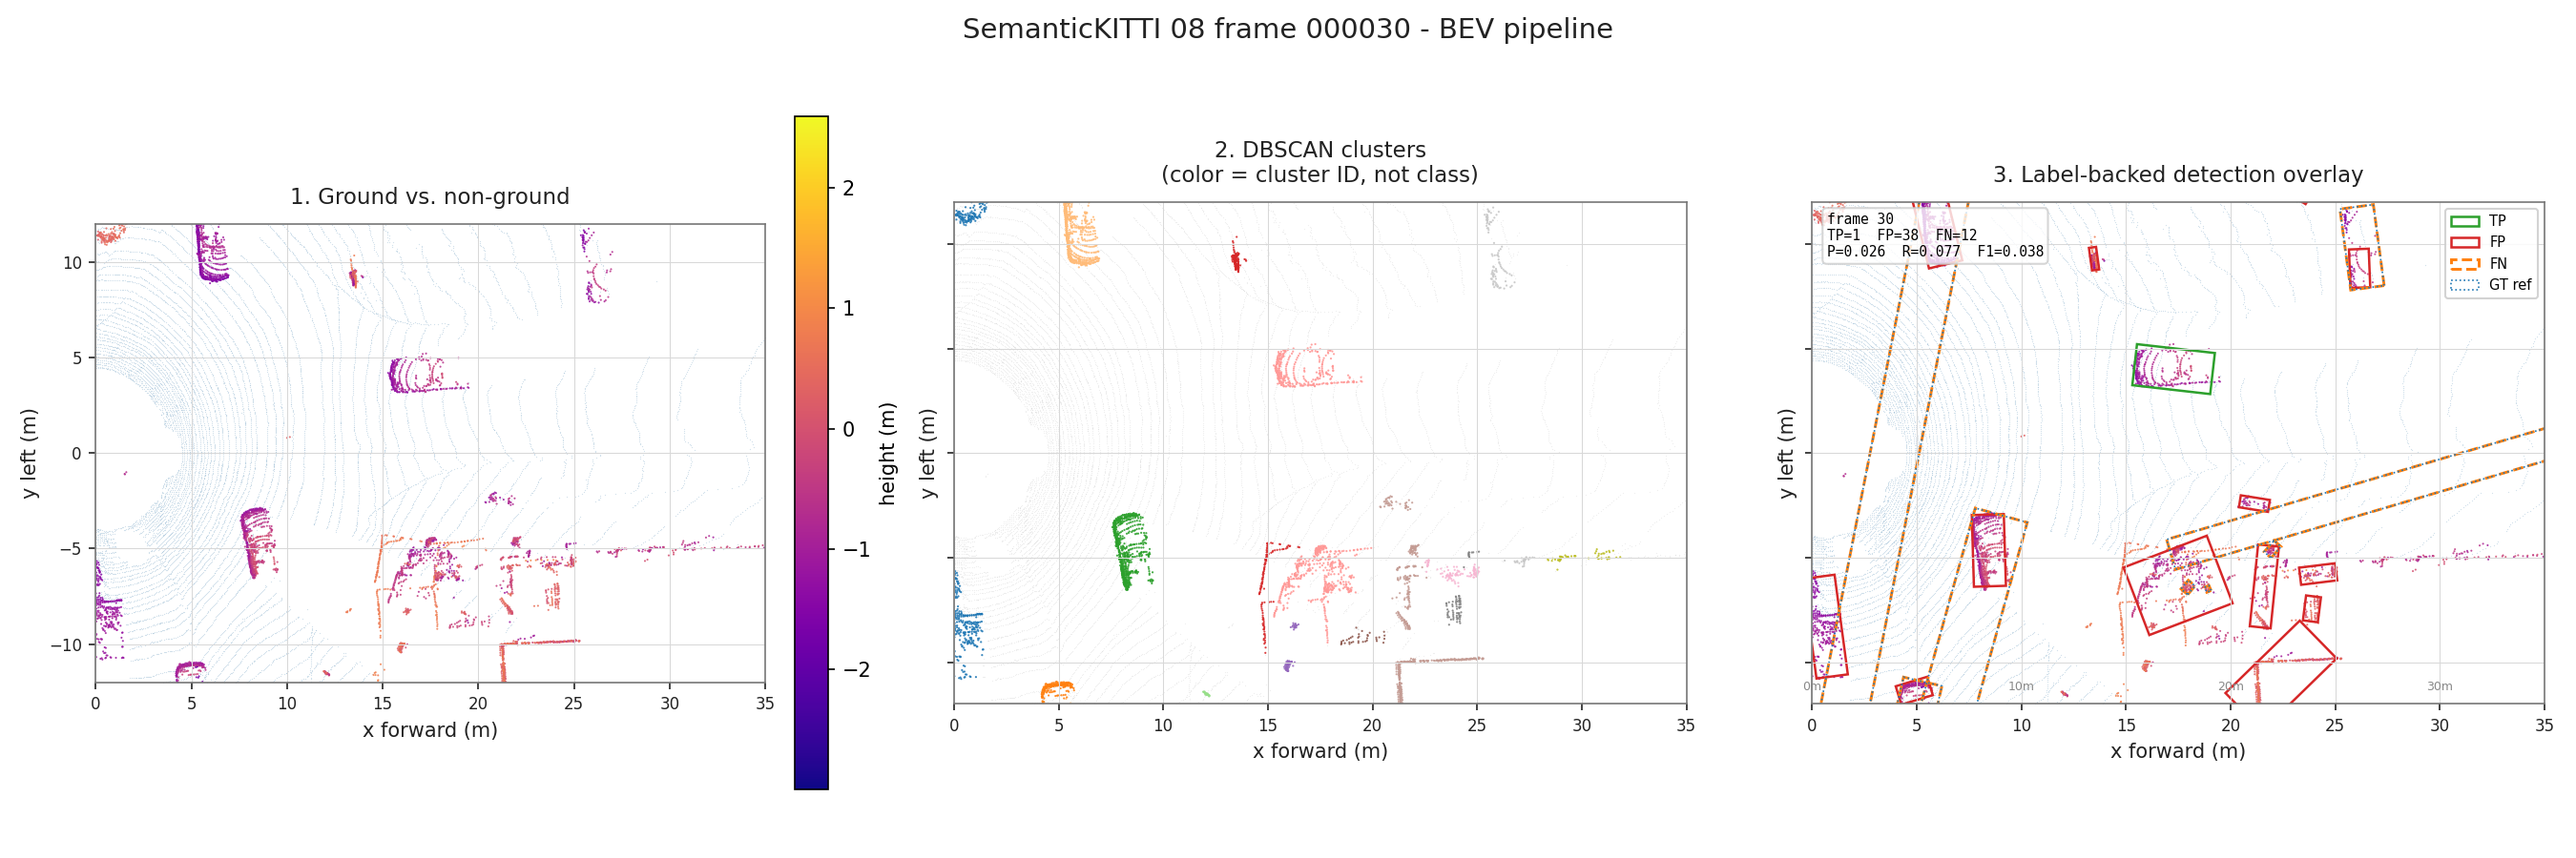
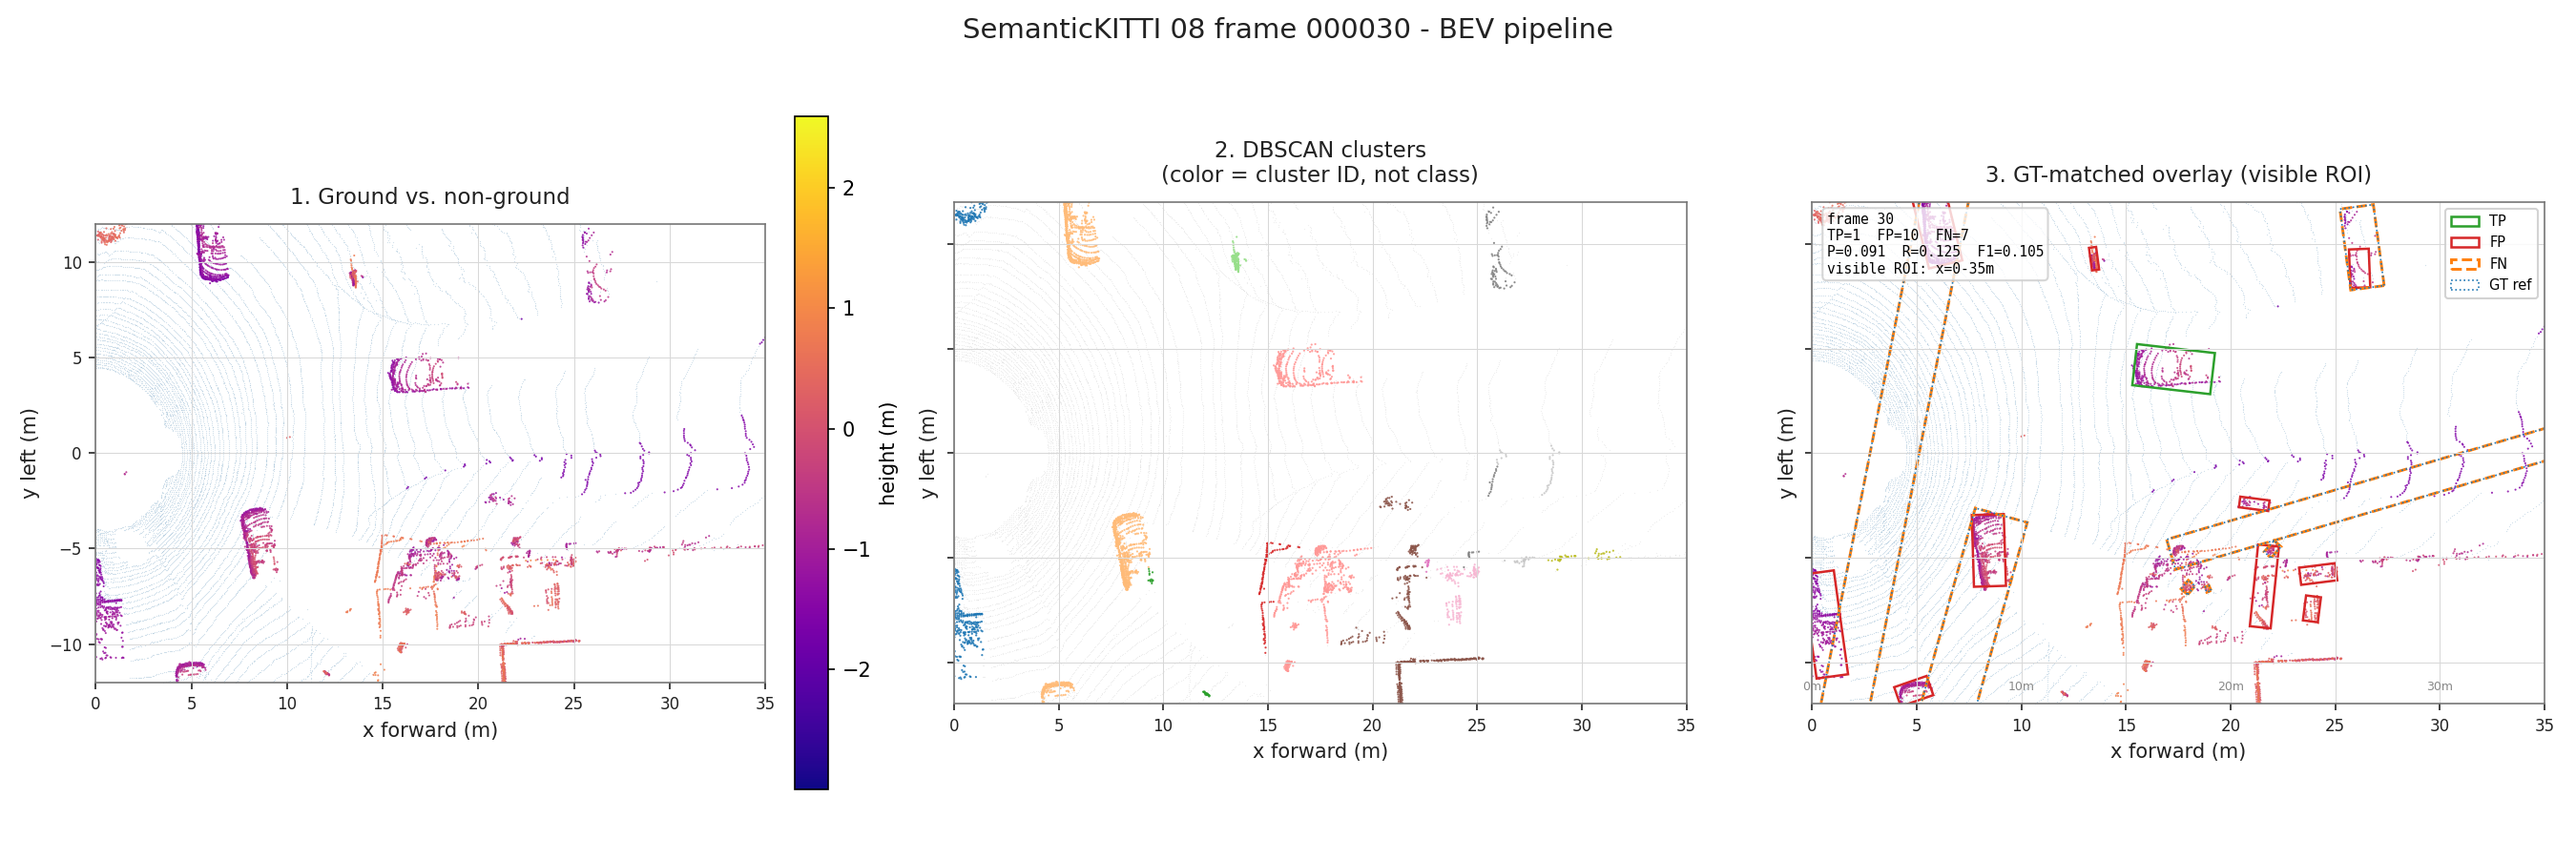
fix: align visible overlays and refine proposals

diff --git a/tools/render_bev.py b/tools/render_bev.py
@@ -37,6 +37,30 @@ NOISE = "#d0d0d0"
 BOX = "#d62728"
 
 
+def _display_bounds(config: dict) -> ROIBounds:
+    """Resolve the XY window used for the rendered qualitative view."""
+    roi_cfg = config.get("preprocess", {}).get("roi", {})
+    display_cfg = config.get("visualization", {}).get("display_roi") or roi_cfg
+    return ROIBounds(
+        x_min=float(display_cfg.get("x_min", roi_cfg.get("x_min", 0.0))),
+        x_max=float(display_cfg.get("x_max", roi_cfg.get("x_max", 70.0))),
+        y_min=float(display_cfg.get("y_min", roi_cfg.get("y_min", -40.0))),
+        y_max=float(display_cfg.get("y_max", roi_cfg.get("y_max", 40.0))),
+        z_min=float(roi_cfg.get("z_min", -3.0)),
+        z_max=float(roi_cfg.get("z_max", 3.0)),
+    )
+
+
+def _boxes_in_display_roi(boxes, bounds: ROIBounds):
+    """Keep boxes whose centre is inside the rendered view."""
+    return [
+        box
+        for box in boxes
+        if bounds.x_min <= box.center[0] <= bounds.x_max
+        and bounds.y_min <= box.center[1] <= bounds.y_max
+    ]
+
+
 def _detection_overlay_data(config: dict, dataset: KITTIDataset, frame_idx: int, boxes) -> tuple[list[BoundingBox3D], list[BoundingBox3D], set[int], set[int]]:
     """Build a label-backed overlay using the same target and IoU rules as eval."""
     frame = dataset.get_frame(frame_idx)
@@ -78,6 +102,10 @@ def _detection_overlay_data(config: dict, dataset: KITTIDataset, frame_idx: int,
         )
         if _ids_match_target(semantic_id, target_ids):
             predictions.append(BoundingBox3D.from_obb_params(box, semantic_id=semantic_id))
+
+    display_bounds = _display_bounds(config)
+    predictions = _boxes_in_display_roi(predictions, display_bounds)
+    ground_truth = _boxes_in_display_roi(ground_truth, display_bounds)
 
     threshold = float(config.get("evaluation", {}).get("iou_threshold", 0.5))
     matches, _, _ = InstanceMatcher(
@@ -241,10 +269,23 @@ def _render_bev(config: dict, frame_idx: int, mode: str, output_path: Path) -> N
         precision = tp / (tp + fp) if tp + fp else 0.0
         recall = tp / (tp + fn) if tp + fn else 0.0
         f1 = 2.0 * precision * recall / (precision + recall) if precision + recall else 0.0
+        display_bounds = _display_bounds(config)
         draw_metrics_text(
-            axes[2], tp, fp, fn, precision, recall, f1, frame_idx
+            axes[2],
+            tp,
+            fp,
+            fn,
+            precision,
+            recall,
+            f1,
+            frame_idx,
+            distance_str=(
+                f"visible ROI: x={display_bounds.x_min:.0f}-{display_bounds.x_max:.0f}m"
+            ),
         )
-        _style_axis(axes[2], config, points, "3. Label-backed detection overlay")
+        _style_axis(
+            axes[2], config, points, "3. GT-matched overlay (visible ROI)"
+        )
         roi_cfg = config.get("preprocess", {}).get("roi", {})
         display_roi = config.get("visualization", {}).get("display_roi") or roi_cfg
         draw_distance_scale(

diff --git a/tests/test_render_bev.py b/tests/test_render_bev.py
@@ -1,0 +1,30 @@
+import numpy as np
+
+from src.eval.detection_eval import BoundingBox3D
+from src.preprocess.roi import ROIBounds
+from tools.render_bev import _boxes_in_display_roi, _display_bounds
+
+
+def _box(x: float, y: float) -> BoundingBox3D:
+    return BoundingBox3D(
+        center=np.array([x, y, 0.0]),
+        dimensions=np.array([4.0, 2.0, 1.5]),
+        yaw=0.0,
+    )
+
+
+def test_display_bounds_uses_display_roi_without_changing_processing_bounds() -> None:
+    config = {
+        "preprocess": {"roi": {"x_min": 0, "x_max": 70, "y_min": -40, "y_max": 40, "z_min": -3, "z_max": 3}},
+        "visualization": {"display_roi": {"x_min": 0, "x_max": 35, "y_min": -12, "y_max": 12}},
+    }
+
+    assert _display_bounds(config) == ROIBounds(0.0, 35.0, -12.0, 12.0, -3.0, 3.0)
+
+
+def test_overlay_keeps_only_boxes_centered_in_visible_roi() -> None:
+    bounds = ROIBounds(0.0, 35.0, -12.0, 12.0, -3.0, 3.0)
+
+    visible = _boxes_in_display_roi([_box(10.0, 0.0), _box(35.0, 12.0), _box(36.0, 0.0), _box(10.0, -13.0)], bounds)
+
+    assert [(box.center[0], box.center[1]) for box in visible] == [(10.0, 0.0), (35.0, 12.0)]

diff --git a/docs/results/kitti08_subset.md b/docs/results/kitti08_subset.md
@@ -12,38 +12,38 @@ This result is generated with `examples/kitti08_subset.yaml`.
 - Prediction class source: box-size heuristic when no class metadata exists
 - Ground RANSAC seed: `0` (fixed for repeatable runs)
 - Output: `outputs/kitti08_subset/reports/det_metrics.json`
+- Selection note: `max_box_volume: 10.0` won a controlled one-factor comparison on this same subset; this is not a held-out benchmark.
 
 ## Overall Metrics
 
 | Metric | Value |
 | --- | ---: |
 | Frames | 500 |
-| Predictions | 14872 |
+| Predictions | 12812 |
 | Ground-truth boxes | 1937 |
-| True positives | 563 |
-| False positives | 14309 |
-| False negatives | 1374 |
-| Precision | 0.0379 |
-| Recall | 0.2907 |
-| F1 | 0.0670 |
-| Mean IoU of matched boxes | 0.7223 |
+| True positives | 541 |
+| False positives | 12271 |
+| False negatives | 1396 |
+| Precision | 0.0422 |
+| Recall | 0.2793 |
+| F1 | 0.0734 |
+| Mean IoU of matched boxes | 0.7237 |
 
 ## Distance Metrics
 
 | Range | Predictions | GT | TP | FP | FN | Precision | Recall | F1 | Mean IoU |
 | --- | ---: | ---: | ---: | ---: | ---: | ---: | ---: | ---: | ---: |
-| 0-10m | 870 | 289 | 234 | 636 | 55 | 0.269 | 0.810 | 0.404 | 0.767 |
-| 10-20m | 3626 | 578 | 243 | 3383 | 335 | 0.067 | 0.420 | 0.116 | 0.706 |
-| 20-30m | 4219 | 495 | 58 | 4161 | 437 | 0.014 | 0.117 | 0.025 | 0.619 |
-| 30-40m | 3718 | 325 | 18 | 3700 | 307 | 0.005 | 0.055 | 0.009 | 0.657 |
-| 40-50m | 1901 | 250 | 10 | 1891 | 240 | 0.005 | 0.040 | 0.009 | 0.784 |
+| 0-10m | 729 | 289 | 223 | 506 | 66 | 0.306 | 0.772 | 0.438 | 0.771 |
+| 10-20m | 2879 | 578 | 234 | 2645 | 344 | 0.081 | 0.405 | 0.135 | 0.706 |
+| 20-30m | 3538 | 495 | 58 | 3480 | 437 | 0.016 | 0.117 | 0.029 | 0.619 |
+| 30-40m | 3309 | 325 | 16 | 3293 | 309 | 0.005 | 0.049 | 0.009 | 0.660 |
+| 40-50m | 1817 | 250 | 10 | 1807 | 240 | 0.006 | 0.040 | 0.010 | 0.784 |
 
 ## Visual Checks
-
 The images below use the same processing configuration as the measured subset.
-`visualization.display_roi` crops only the rendered view. Panel 3 is derived
-from real SemanticKITTI labels and the same class-aware BEV-IoU matching rule
-as the table above; TP, FP, and FN are shown explicitly.
+`visualization.display_roi` crops only the rendered view, and panel 3 evaluates
+only boxes centred within that visible ROI. It uses real SemanticKITTI labels and
+the same class-aware BEV-IoU matching rule as the table above.
 
 ![KITTI BEV pipeline frame 30](../assets/kitti08-frame-000030-pipeline.png)
 

diff --git a/README.md b/README.md
@@ -104,17 +104,17 @@ Subset metrics, generated from `outputs/kitti08_subset/reports/det_metrics.json`
 
 | Sequence / frames | Targets | IoU | Precision | Recall | F1 | Mean IoU |
 | --- | --- | --- | ---: | ---: | ---: | ---: |
-| 08 / 0-499 | car, person | BEV >= 0.5 | 0.0379 | 0.2907 | 0.0670 | 0.7223 |
+| 08 / 0-499 | car, person | BEV >= 0.5 | 0.0422 | 0.2793 | 0.0734 | 0.7237 |
 
 Distance-stratified recall:
 
 | Range | Precision | Recall | F1 |
 | --- | ---: | ---: | ---: |
-| 0-10m | 0.269 | 0.810 | 0.404 |
-| 10-20m | 0.067 | 0.420 | 0.116 |
-| 20-30m | 0.014 | 0.117 | 0.025 |
-| 30-40m | 0.005 | 0.055 | 0.009 |
-| 40-50m | 0.005 | 0.040 | 0.009 |
+| 0-10m | 0.306 | 0.772 | 0.438 |
+| 10-20m | 0.081 | 0.405 | 0.135 |
+| 20-30m | 0.016 | 0.117 | 0.029 |
+| 30-40m | 0.005 | 0.049 | 0.009 |
+| 40-50m | 0.006 | 0.040 | 0.010 |
 
 These numbers should be read as proposal-baseline results, not as detector
 model accuracy. The pipeline creates many geometric proposals and uses simple
@@ -124,10 +124,10 @@ reasonable, which is reflected in the matched-box mean IoU.
 
 The qualitative configuration uses the exact same processing parameters as the
 subset run. Its `visualization.display_roi` only crops the rendered view for
-readability. Panel 3 is label-backed: predictions are matched to real
-SemanticKITTI instances with the same class-aware BEV-IoU rule as evaluation;
-green, red, and dashed orange boxes are TP, FP, and FN respectively. The images
-are diagnostics, not a replacement for the subset metrics above.
+readability. Panel 3 is label-backed: it evaluates only boxes centred in that
+visible ROI, so its counts match the boxes on screen. Predictions are matched to
+real SemanticKITTI instances with the same class-aware BEV-IoU rule as evaluation;
+green, red, and dashed orange boxes are TP, FP, and FN respectively.
 
 ![KITTI BEV pipeline frame 30](docs/assets/kitti08-frame-000030-pipeline.png)
 
